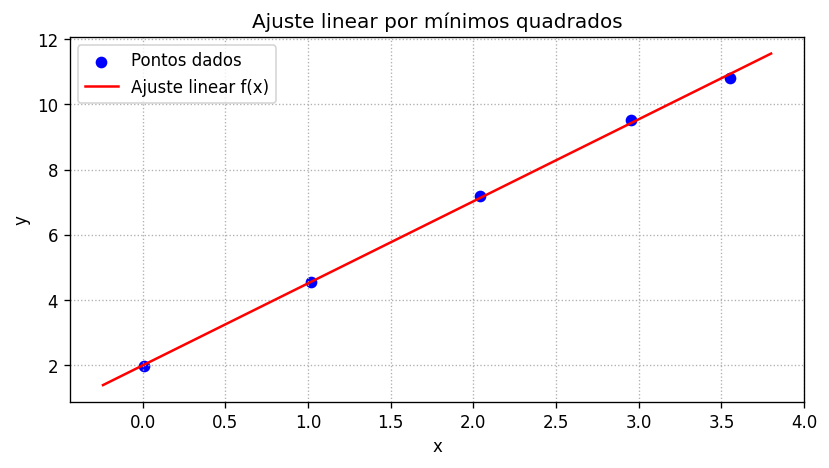
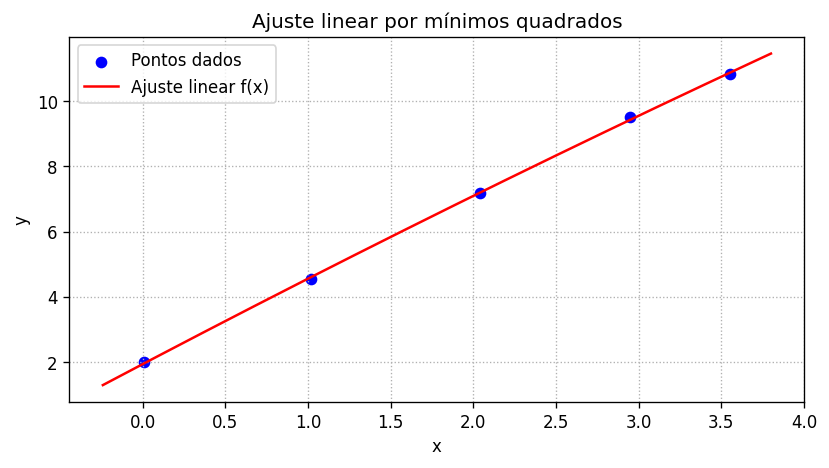
Semana 10

diff --git a/semana 10/main.py b/semana 10/main.py
@@ -50,17 +50,36 @@ def main():
     print(f"f(x)=a1+a2*X, Fx(1)= {I:.7f}")
     plot(x, y, v, 2)
 
-     # Atividade 3
+    # Atividade 3
     print("-- Atividade 3 --")
 
     x = np.array([0.01, 1.02, 2.04, 2.95,3.55], dtype=float)
     y = np.array([1.99, 4.55, 7.20, 9.51,10.82], dtype=float)
-    v = lambda x: np.column_stack((np.ones(len(x)), x))
+    v = lambda x: np.column_stack((np.ones(len(x)), x,x**2))
 
     A = regressao(x, y, v)
 
     print(A)
     plot(x, y, v, 3)
+
+    # Atividade 4
+    print("-- Atividade 4 a) --")
+
+    x = np.array([0.0, 0.1, 0.2, 0.3,0.4,0.5,0.6,0.7,0.8,0.9,1.0], dtype=float)
+    y = np.array([31.0, 35.0, 37.0, 33.0,28.0,20.0,16.0,15.0,18.0,23.0,31.0], dtype=float)
+    v = lambda x: np.column_stack((np.ones(len(x)), np.sin(2*np.pi*x),np.cos(2*np.pi*x)))
+
+    A = regressao(x, y, v)
+
+    print(A)
+    plot(x, y, v, 41)
+    
+    print("-- Atividade 4 b) --")
+    v = lambda x: np.column_stack((np.ones(len(x)),x,x**2,x**3))
+
+    A = regressao(x, y, v)
+    print(A)
+    plot(x, y, v, 42)
 
 if __name__ == "__main__":
     main()
